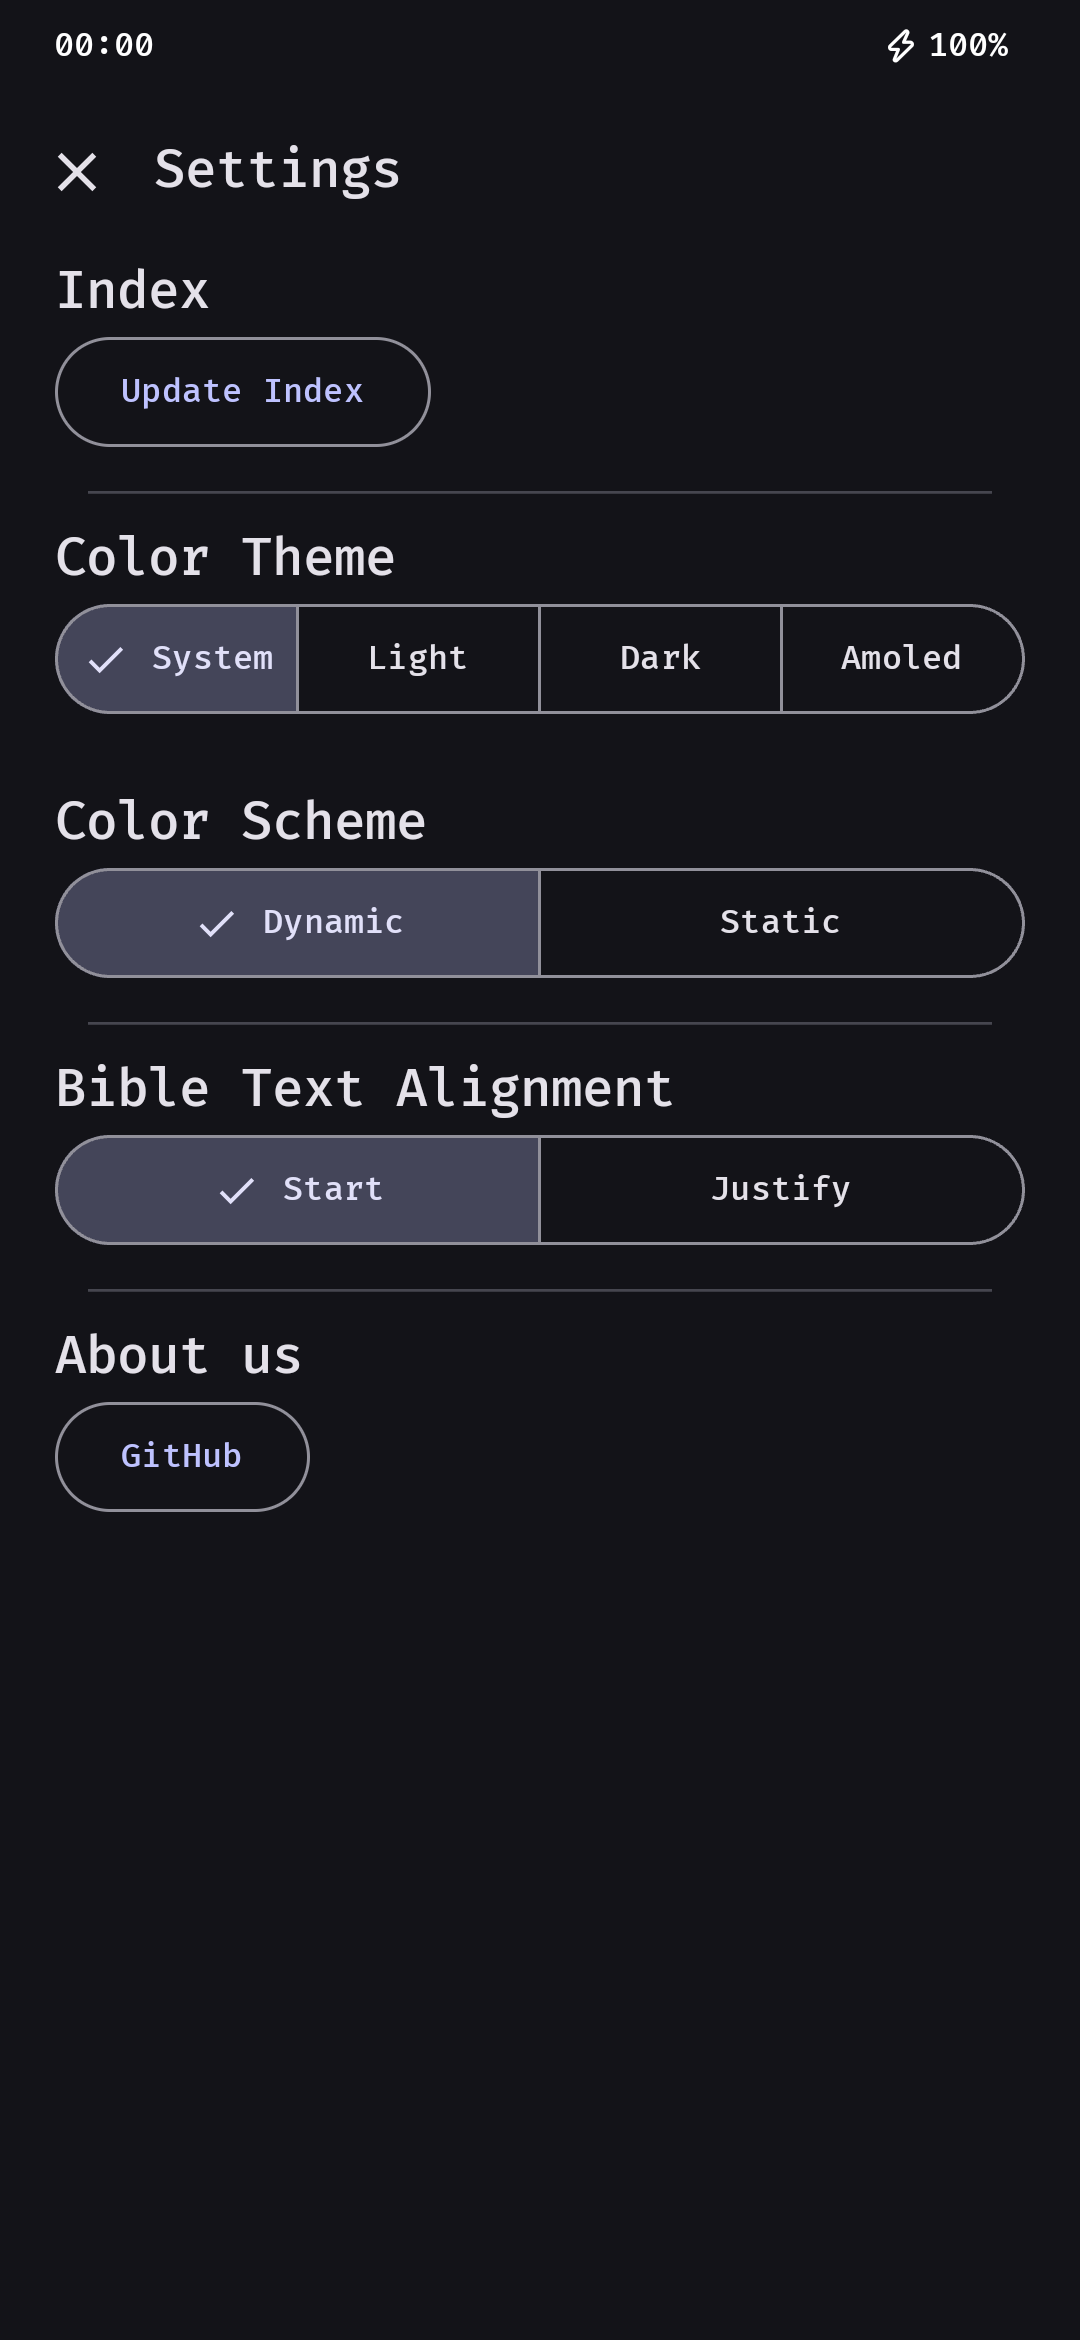
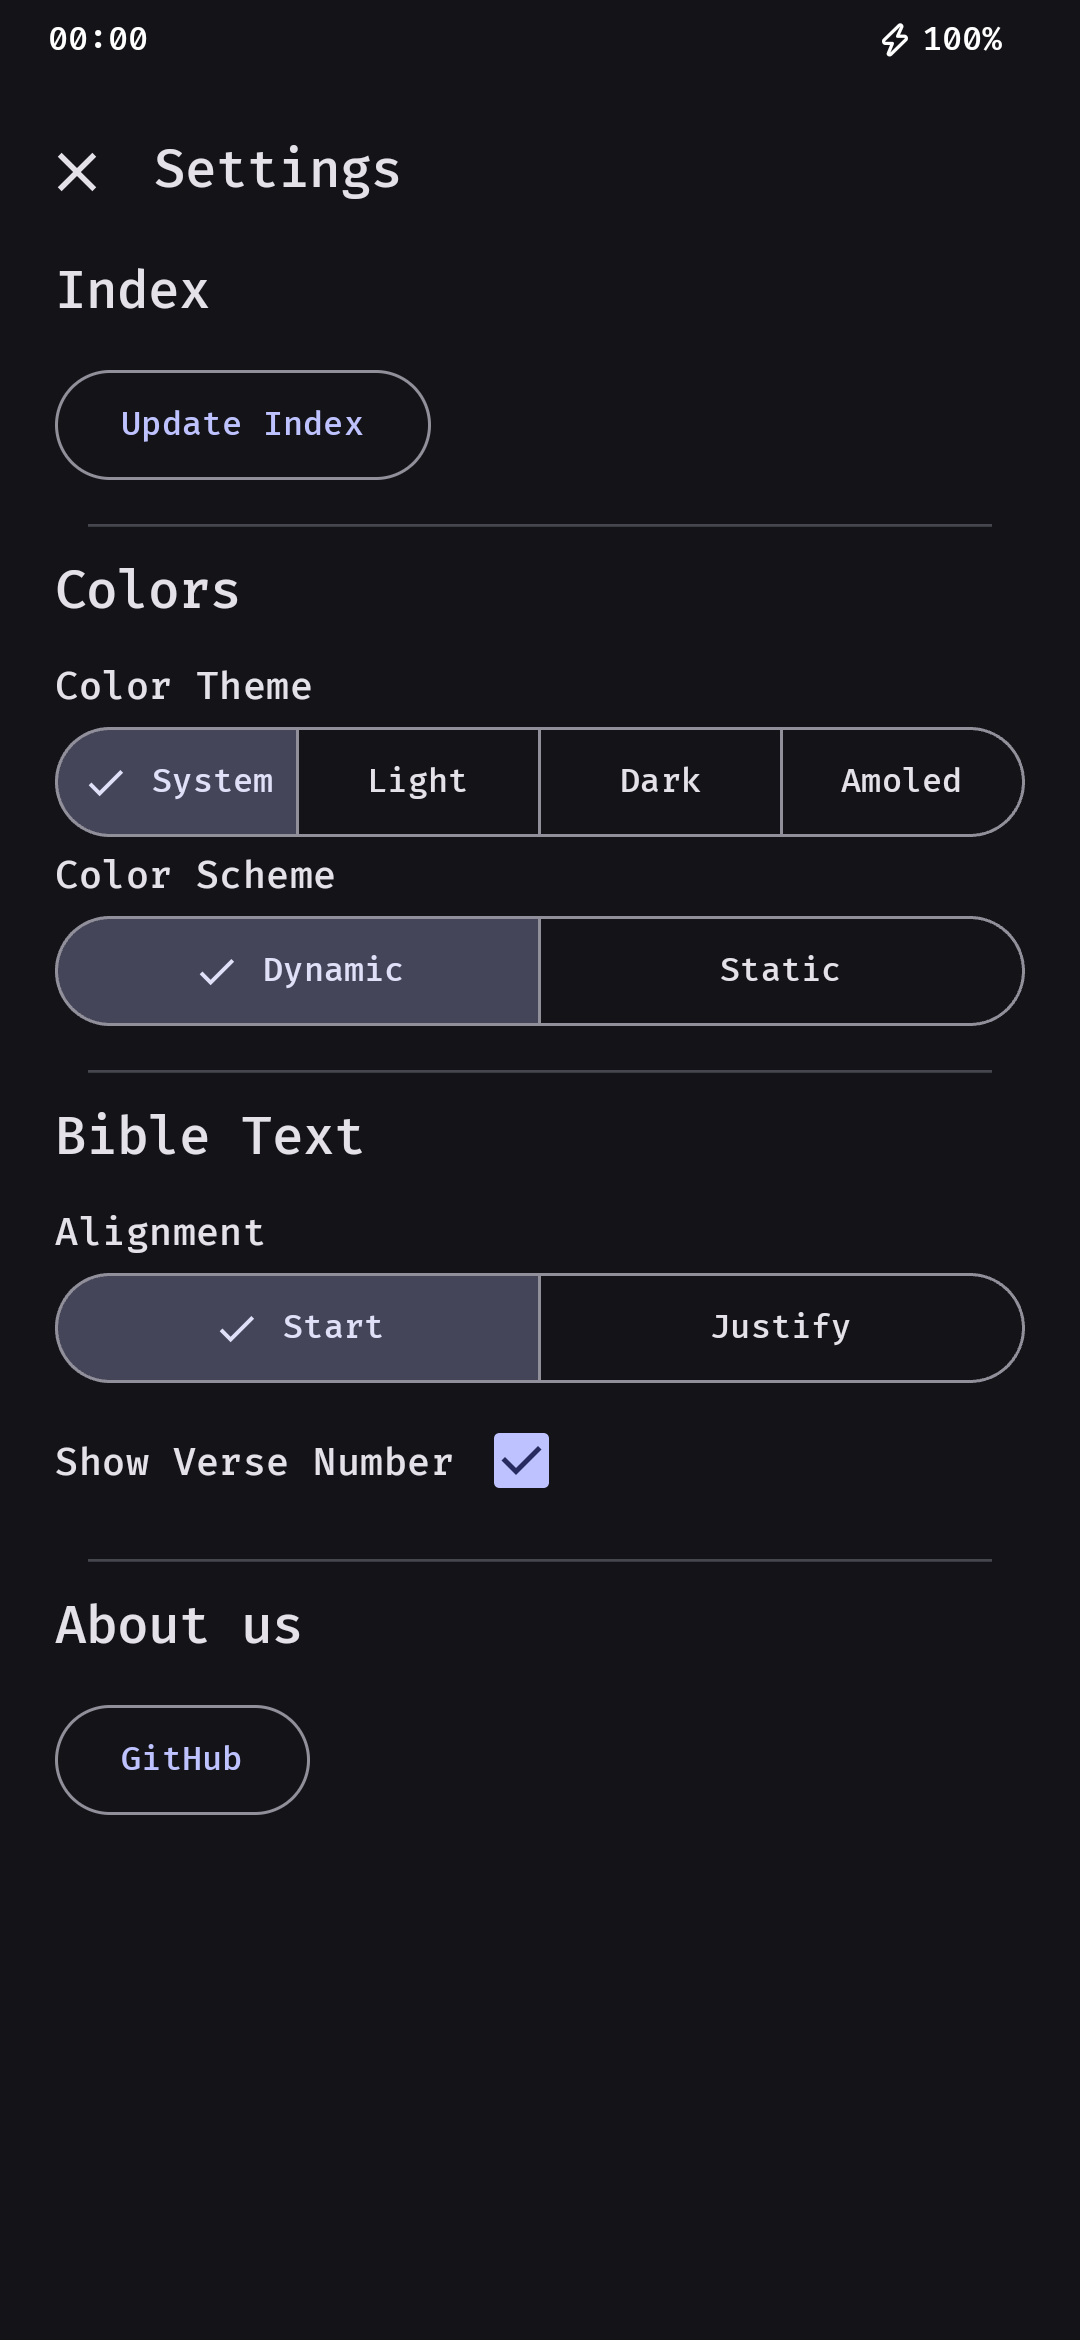
chore: bump to 0.7.0

diff --git a/CHANGELOG.md b/CHANGELOG.md
@@ -2,6 +2,32 @@
 
 All notable changes to this project will be documented in this file.
 
+## [0.7.0] - 2024-11-23
+
+### 🚀 Features
+
+- Show/hide verse number
+
+### 🚜 Refactor
+
+- Combine shared prefs
+- Remove global variables
+
+### ⚡ Performance
+
+- Remember selection, add default selection vars
+
+### 🎨 Styling
+
+- Reformat code
+- Reformat
+
+## [0.6.1] - 2024-11-20
+
+### ⚙ Miscellaneous Tasks
+
+- Bump to 0.6.1
+
 ## [0.6.0] - 2024-11-19
 
 ### 🚀 Features
